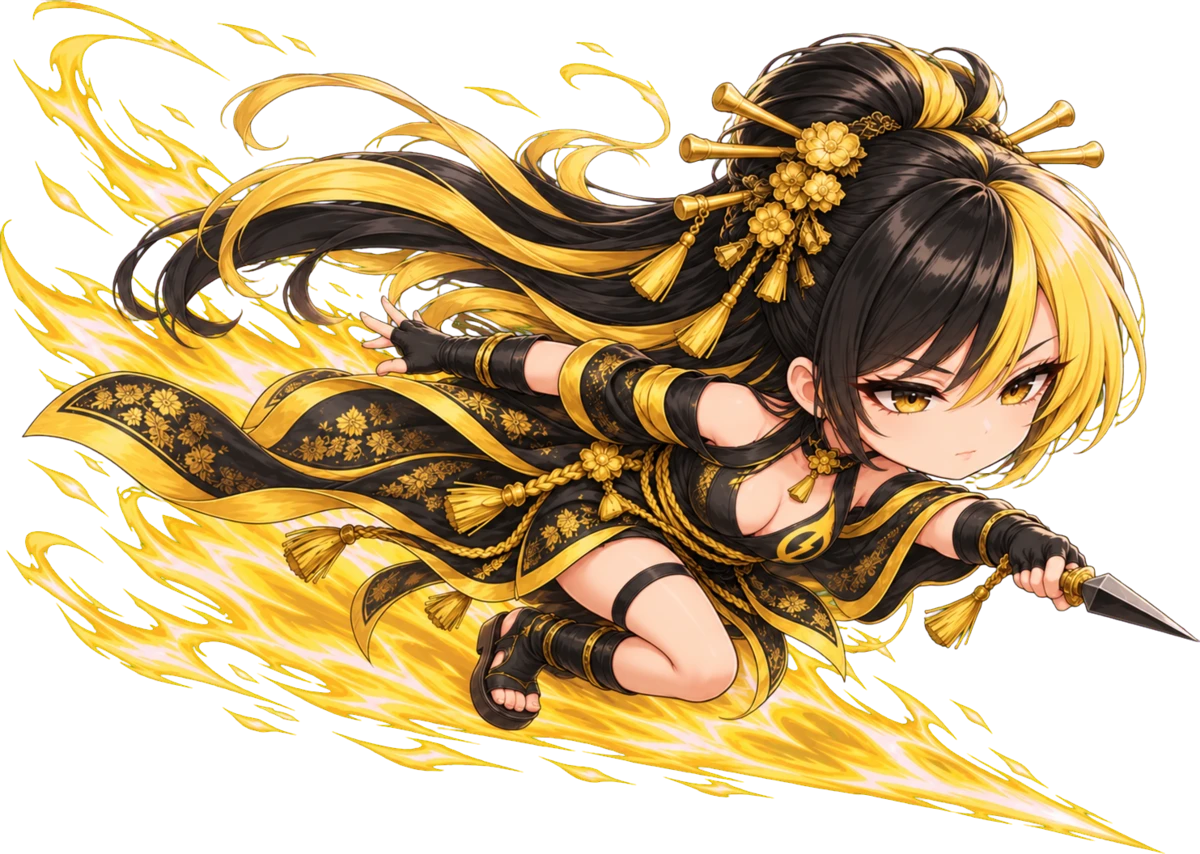
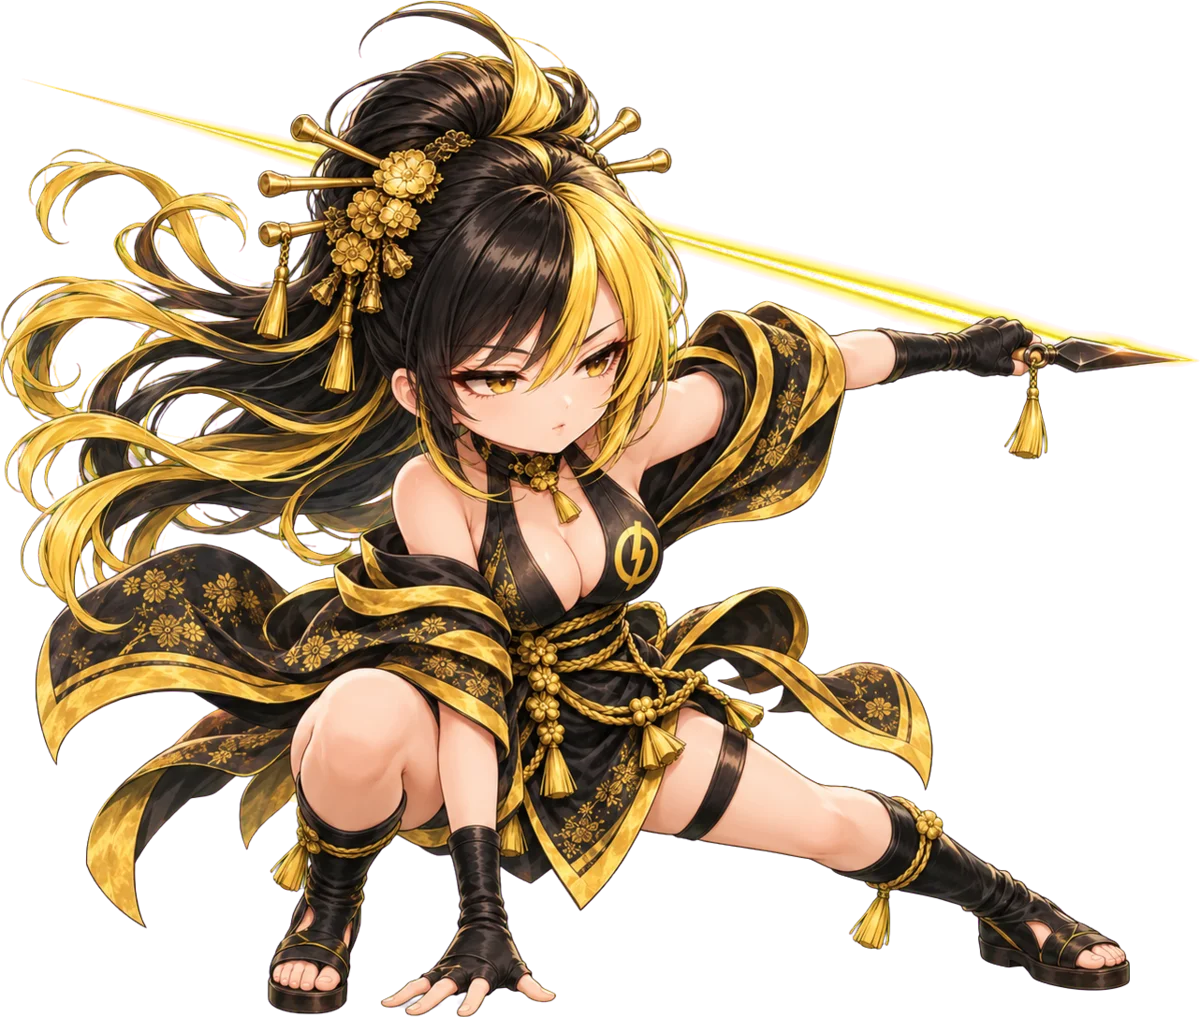
feat: コンボ画像を11コマにし、振り向きざまと迅雷一閃を描き直す
コンボ3のクナイ投げのあとを、右肩越しの振り向きざまと流し目のまま放つ回し蹴りの2コマにした。宙を蹴って反転するコマは削った。

迅雷一閃は、手前へ突っ込む・居合の残心で止まる・背後の軌跡から時間差で衝撃が爆ぜるの3コマに割った。最後の構えは踏み込みと見分けが付く溜めの姿に描き直した。

1周が9コマから11コマになったので、巡回するコマ数を定数にした。

diff --git a/Tests/JinraiCoreTests/JinraiModeTests.swift b/Tests/JinraiCoreTests/JinraiModeTests.swift
@@ -5,15 +5,15 @@ import Testing
 
 @Suite("JinraiModeLogic")
 struct JinraiModeLogicTests {
-    @Test("コンボ画像 index: 0 は開始、1〜9 を巡回")
+    @Test("コンボ画像 index: 0 は開始、1〜11 を巡回")
     func comboImageIndex() {
         #expect(JinraiModeLogic.comboImageIndex(count: 0) == 0)
         #expect(JinraiModeLogic.comboImageIndex(count: -1) == 0)
         #expect(JinraiModeLogic.comboImageIndex(count: 1) == 1)
-        #expect(JinraiModeLogic.comboImageIndex(count: 9) == 9)
-        #expect(JinraiModeLogic.comboImageIndex(count: 10) == 1)
-        #expect(JinraiModeLogic.comboImageIndex(count: 18) == 9)
-        #expect(JinraiModeLogic.comboImageIndex(count: 19) == 1)
+        #expect(JinraiModeLogic.comboImageIndex(count: 11) == 11)
+        #expect(JinraiModeLogic.comboImageIndex(count: 12) == 1)
+        #expect(JinraiModeLogic.comboImageIndex(count: 22) == 11)
+        #expect(JinraiModeLogic.comboImageIndex(count: 23) == 1)
     }
 
     @Test("ユーザー指定コンボ画像 index: 0 は開始、1... を巡回")

diff --git a/Sources/JinraiCore/JinraiModeLogic.swift b/Sources/JinraiCore/JinraiModeLogic.swift
@@ -6,10 +6,13 @@ public enum JinraiModeLogic {
     /// アニメーションの1ステップ間隔(元 0.02s の doEvery)
     public static var animationInterval: Double { 0.02 }
 
-    /// コンボ数 → キャラクター画像 index(jinrai0〜9.webp)。
-    /// 0 は開始直後、1〜9 をコンボ数で巡回
+    /// 同梱のコンボ画像のうち、巡回するコマ数(jinrai1〜11.webp)
+    public static let bundledComboFrameCount = 11
+
+    /// コンボ数 → キャラクター画像 index(jinrai0〜11.webp)。
+    /// 0 は開始直後、1〜11 をコンボ数で巡回
     public static func comboImageIndex(count: Int) -> Int {
-        count <= 0 ? 0 : ((count - 1) % 9) + 1
+        count <= 0 ? 0 : ((count - 1) % bundledComboFrameCount) + 1
     }
 
     /// コンボ数 → ユーザー指定画像配列の index。
